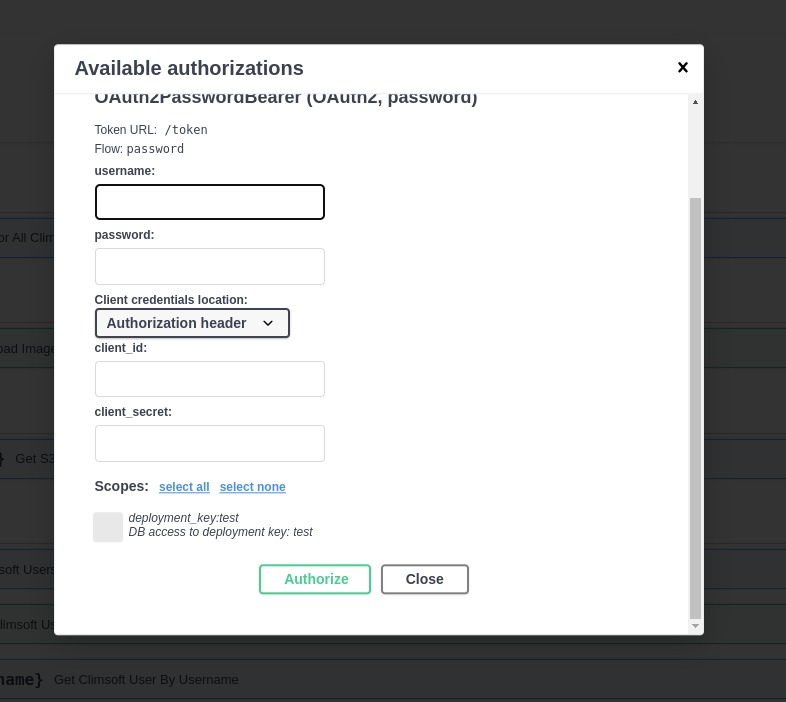
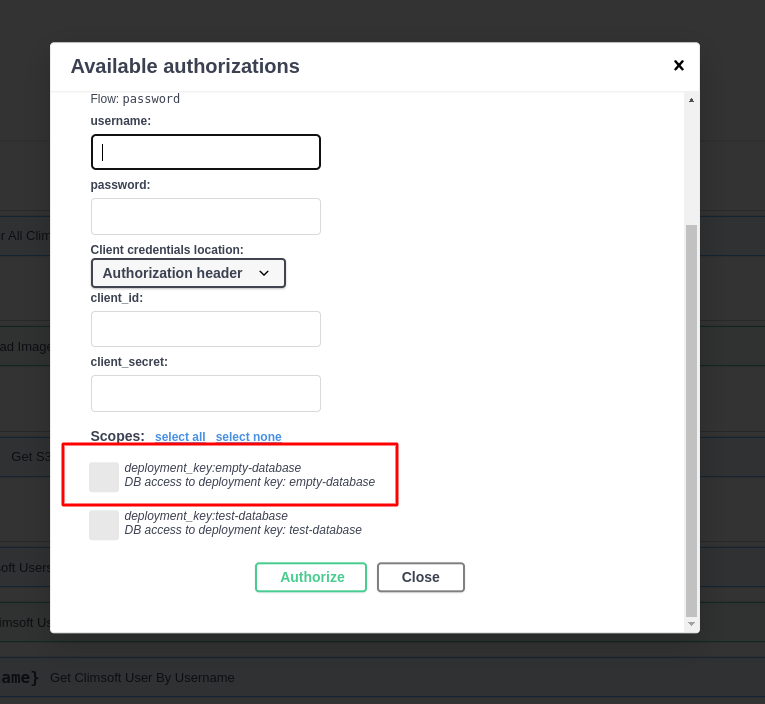
update readme on how to reference implement

diff --git a/initdb.py b/initdb.py
@@ -1,5 +1,4 @@
 from opencdms.models.climsoft.v4_1_1_core import Base
 from climsoft_api.db import engine
 
-
 Base.metadata.create_all(engine)

diff --git a/README.md b/README.md
@@ -79,9 +79,21 @@ You can configure database uri and server name for each deployment.
 Here is an example `deployment.yml` file for you:
 
 ```yaml
-test:
-  NAME: Climsoft Test
+empty-database:
+  NAME: Climsoft Deployment With Empty DB
   DATABASE_URI: "mysql+mysqldb://root:password@mariadb/climsoft"
+  S3_BUCKET: climsoft-paper-archive
+  AWS_REGION: eu-west-2
+  AWS_ACCESS_KEY_ID: ACCESS_KEY_ID
+  AWS_SECRET_ACCESS_KEY: SECRET_ACCESS_KEY
+
+test-database:
+  NAME: Climsoft Deployment With Test Data
+  DATABASE_URI: "mysql+mysqldb://root:password@mariadb/mariadb_climsoft_test_db_v4"
+  S3_BUCKET: climsoft-paper-archive
+  AWS_REGION: eu-west-2
+  AWS_ACCESS_KEY_ID: ACCESS_KEY_ID
+  AWS_SECRET_ACCESS_KEY: SECRET_ACCESS_KEY
 ```
 
 #### Selecting database
@@ -124,6 +136,41 @@ between rows. But there is some exceptions. Such as -
 it in path parameters. Instead, we are raising an exception where other primary keys
 are same but description is different.
 
+
+### Deployment
+
+The default deployment config of this repository contains two deployments. One with an empty database and another one with
+a seeded database with test data. If you do not want multi-deployment, delete `deployment.yml` from repository root. It will
+deploy an instance with an empty database.
+
+When you run single instance, the URL to sawgger doc is: http(s)://domain.tld/climsoft
+
+When you run multi-deplyment, the URL to swagger doc is: http(s)://domain.tld/{deployment_key}/climsoft
+
+
+#### Steps to follow
+
+There are some scripts in `scripts` directory that can help you to deploy this
+repository on a server.
+
+```bash
+$ cd scripts
+$ chmod +x install-docker.sh
+$ chmod +x install-docker-compose.sh
+$ ./install-docker.sh
+$ newgrp docker
+$ ./install-docker-compose.sh
+$ docker-compose -f docker-compose-reference.yml up -d --build
+```
+
+If you want to restore database and other volumes each hour,
+
+```bash
+$ cd scripts
+$ chmod +x restore-db.sh 
+$ crontab e
+$ 0 * * * * /path/to/this/repo/root/scripts/restore-db.sh /path/to/this/repo/root/docker-compose.reference.yml
+```
 
 ### Swagger docs
 Go to http://localhost:5080 for swagger doc
